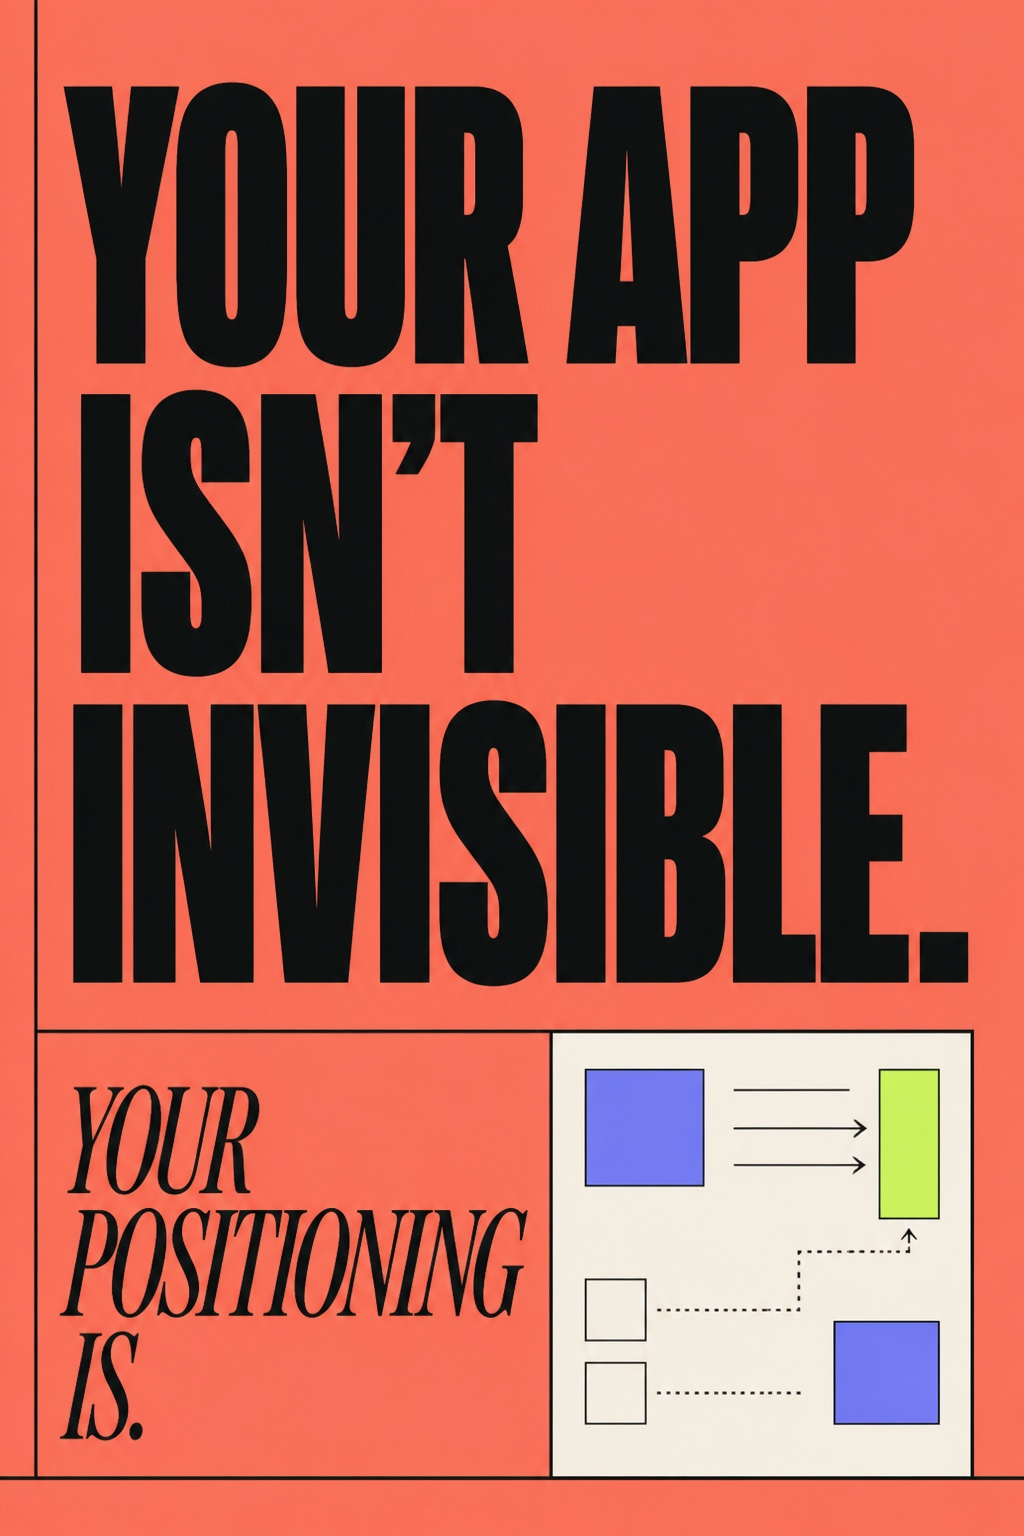
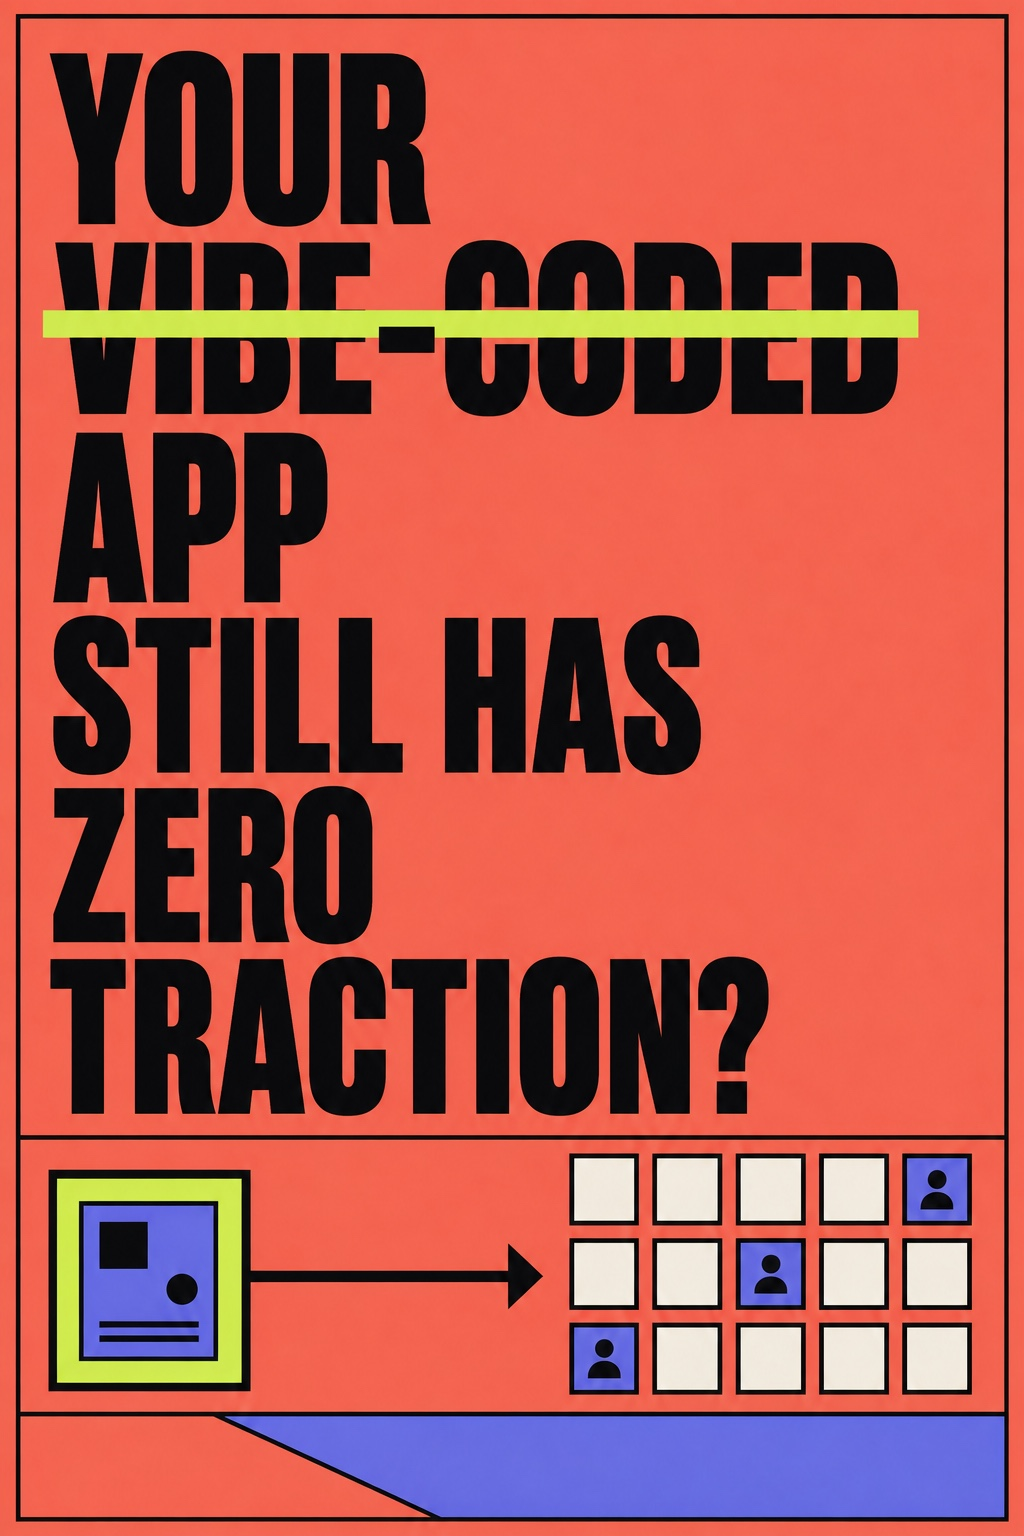
Refine homepage campaign story

diff --git a/app/page.tsx b/app/page.tsx
@@ -47,18 +47,18 @@ export default function Home() {
         <div className="hero-visual" aria-label="Content Factory campaign preview">
           <div className="visual-label">OUTPUT / CAROUSEL 02</div>
           <div className="poster poster-back">
-            <Image src="/demo/content-factory-03.jpg" alt="Content Factory carousel slide: Automated campaigns. Compounding attention." fill loading="eager" sizes="(max-width: 800px) 55vw, 25vw" />
+            <Image src="/demo/content-factory-03.jpg" alt="Content Factory carousel slide: You keep building. We keep you visible." fill loading="eager" sizes="(max-width: 800px) 55vw, 25vw" />
           </div>
           <div className="poster poster-middle">
-            <Image src="/demo/content-factory-02.jpg" alt="Content Factory carousel slide: We make your app impossible to ignore." fill loading="eager" sizes="(max-width: 800px) 55vw, 25vw" />
+            <Image src="/demo/content-factory-02.jpg" alt="Content Factory carousel slide: Content Factory creates campaigns just from your website link." fill loading="eager" sizes="(max-width: 800px) 55vw, 25vw" />
           </div>
           <div className="poster poster-front">
-            <Image src="/demo/content-factory-01.jpg" alt="Content Factory carousel slide: Your app isn’t invisible. Your positioning is." fill priority sizes="(max-width: 800px) 55vw, 25vw" />
+            <Image src="/demo/content-factory-01.jpg" alt="Content Factory carousel slide: Your vibe-coded app still has zero traction?" fill priority sizes="(max-width: 800px) 55vw, 25vw" />
           </div>
           <div className="angle-note">
             <Sparkles size={16} aria-hidden="true" />
             <span>Angle found</span>
-            <strong>built it. now grow it.</strong>
+            <strong>one link. full campaign.</strong>
           </div>
         </div>
       </section>
@@ -108,7 +108,7 @@ export default function Home() {
             </div>
             <div className="campaign-card warm">
               <div><span>VALIDATION</span><b>7 slides</b></div>
-              <h3>your app isn&apos;t invisible. your positioning is.</h3>
+              <h3>your vibe-coded app still has zero traction?</h3>
               <div className="mini-slides">
                 {[1, 2, 3].map((index) => <Image key={index} src={`/demo/content-factory-0${index}.jpg`} alt="" width={90} height={135} />)}
               </div>
@@ -116,14 +116,14 @@ export default function Home() {
             </div>
             <div className="campaign-card blue">
               <div><span>EDUCATIONAL</span><b>Script</b></div>
-              <h3>we make your app impossible to ignore.</h3>
+              <h3>Content Factory creates campaigns just from your website link.</h3>
               <p>Hook variations <strong>08</strong></p>
               <p>Voice match <strong>94%</strong></p>
               <footer><span>Draft generated</span><ArrowRight size={17} aria-hidden="true" /></footer>
             </div>
             <div className="campaign-card acid">
               <div><span>LEARNING</span><b>Live</b></div>
-              <h3>Automated campaigns. Compounding attention.</h3>
+              <h3>You keep building. We keep you visible.</h3>
               <div className="signal-bars"><i /><i /><i /><i /><i /></div>
               <footer><span>Apply insight</span><ArrowRight size={17} aria-hidden="true" /></footer>
             </div>
